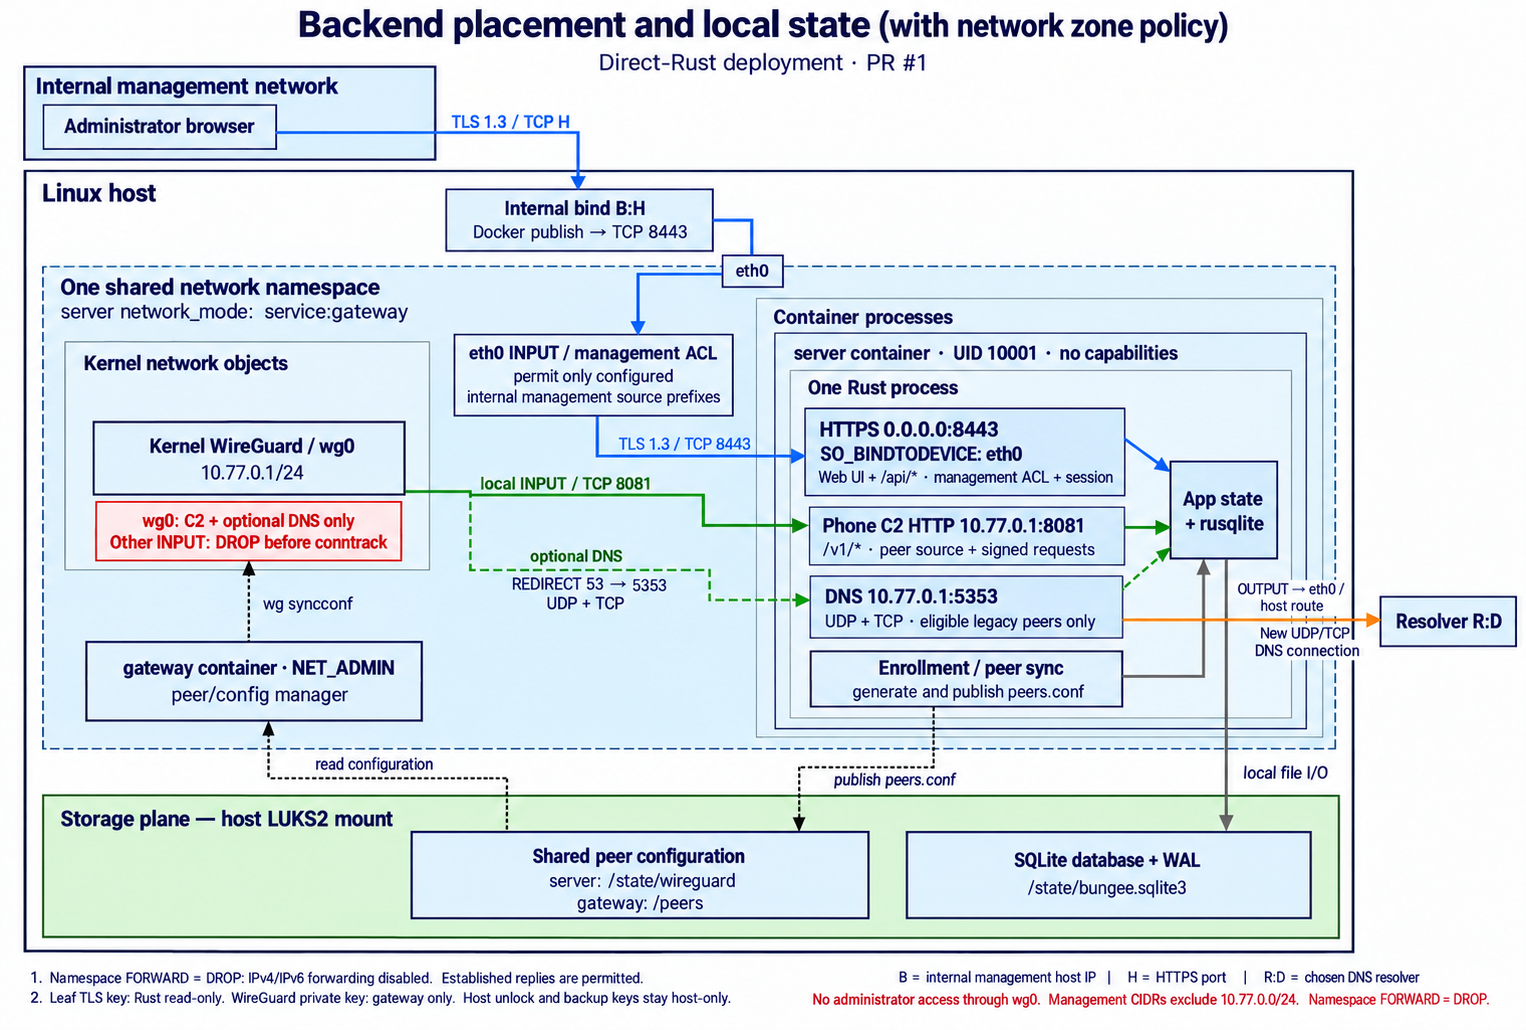
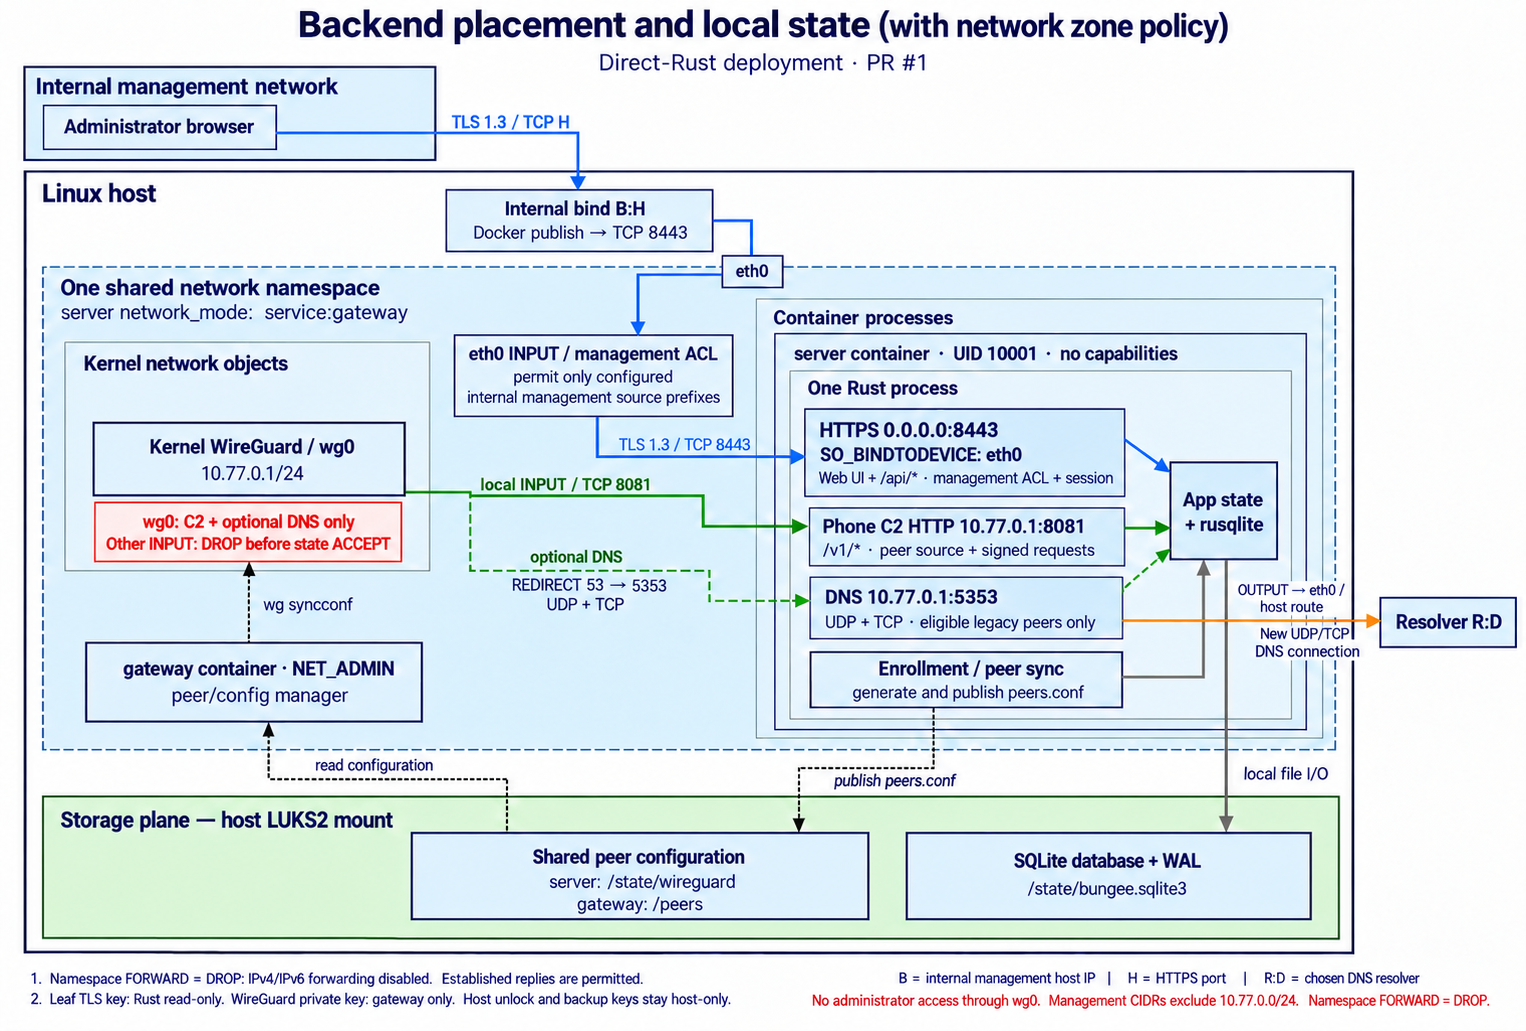
Publish fully redrawn security architecture on the live Security page

diff --git a/docs/SECURITY.md b/docs/SECURITY.md
@@ -14,23 +14,23 @@ The [validation record](VALIDATION.md) identifies tested behavior and outstandin
 
 ### Network paths
 
-The first drawing separates logical L3 reachability from the UDP transport carrying it. Its two panels show the same endpoints. `P` is one phone's `10.77.0.n` address, `E` is the reachable numeric WireGuard endpoint IP, and `W` is the configured UDP port. The green dashed path is the inner overlay, not a second physical link.
+The drawing is a single logical topology. Orange carries WireGuard ciphertext over the routed underlay to the server's kernel WireGuard endpoint. Green shows decrypted traffic delivered locally to Rust; the dashed branch is optional legacy DNS. Blue carries administrator TLS from the internal management network. Host port publishing is summarized above the shared namespace. `P` is a phone's `10.77.0.n` address, `E` is the reachable phone endpoint IP, `B` is the internal management IP, and `W`/`H` are the configured UDP/HTTPS ports.
 
-[![WireGuard overlay and UDP underlay: phone userspace stack, inner IPv4/TCP addressing, host Docker publication, shared namespace eth0, kernel WireGuard decapsulation, wg0 and local INPUT to Rust.](https://github.com/argentumseven/bungee/blob/b1e8297338aa51b8a7a0995a774c62298bd8330e/docs/images/security-architecture.png?raw=true)](https://github.com/argentumseven/bungee/blob/b1e8297338aa51b8a7a0995a774c62298bd8330e/docs/images/security-architecture.png)
+[![Network security topology: encrypted phone WireGuard ingress, separate internal administrator HTTPS, local C2 and optional DNS services in one Rust process, and a new outbound resolver connection.](https://github.com/argentumseven/bungee/blob/40b0fd8d7ec2d3424800679f2301d27dfe5aebe0/docs/images/security-architecture.png?raw=true)](https://github.com/argentumseven/bungee/blob/40b0fd8d7ec2d3424800679f2301d27dfe5aebe0/docs/images/security-architecture.png)
 
-[Open the full-size overlay and underlay drawing](https://github.com/argentumseven/bungee/blob/b1e8297338aa51b8a7a0995a774c62298bd8330e/docs/images/security-architecture.png).
+[Open the full-size network topology](https://github.com/argentumseven/bungee/blob/40b0fd8d7ec2d3424800679f2301d27dfe5aebe0/docs/images/security-architecture.png).
 
 The phone's address belongs to its app-contained userspace TCP/IP stack. The outer UDP flow enters the host's Docker port publication, crosses the bridge/veth into `eth0`, and reaches kernel WireGuard. After decapsulation, `wg0` delivers the inner TCP connection locally to `10.77.0.1:8081` through INPUT. It does not traverse the namespace's FORWARD chain or another container network. The phone peer has `AllowedIPs=10.77.0.1/32`; the server peer has `AllowedIPs=P/32`.
 
 ### Backend placement
 
-[![Backend placement: two containers in one network namespace, one Rust process with separate HTTPS, device HTTP and optional DNS sockets, local SQLite file I/O and shared peer configuration.](https://github.com/argentumseven/bungee/blob/b1e8297338aa51b8a7a0995a774c62298bd8330e/docs/images/backend-topology.png?raw=true)](https://github.com/argentumseven/bungee/blob/b1e8297338aa51b8a7a0995a774c62298bd8330e/docs/images/backend-topology.png)
+[![Backend placement: two containers in one network namespace, one Rust process with separate HTTPS, device HTTP and optional DNS sockets, local SQLite file I/O and shared peer configuration.](https://github.com/argentumseven/bungee/blob/40b0fd8d7ec2d3424800679f2301d27dfe5aebe0/docs/images/backend-topology.png?raw=true)](https://github.com/argentumseven/bungee/blob/40b0fd8d7ec2d3424800679f2301d27dfe5aebe0/docs/images/backend-topology.png)
 
-[Open the full-size backend drawing](https://github.com/argentumseven/bungee/blob/b1e8297338aa51b8a7a0995a774c62298bd8330e/docs/images/backend-topology.png).
+[Open the full-size backend drawing](https://github.com/argentumseven/bungee/blob/40b0fd8d7ec2d3424800679f2301d27dfe5aebe0/docs/images/backend-topology.png).
 
-The gateway and server are separate containers sharing one network namespace. Its WireGuard device is a kernel network object; the gateway manager configures it. One Rust process serves administrator HTTPS, the device HTTP API and optional DNS, with shared application state and local SQLite/WAL file I/O. Dotted black lines show peer-configuration files and `wg syncconf`, not network hops. Administrator TLS uses only the host's internal management IP and namespace `eth0`: INPUT admits configured internal source prefixes and Rust constrains the TLS socket with `SO_BINDTODEVICE=eth0`. Every other `wg0` INPUT path is dropped before conntrack; phone-overlay sources are also rejected independently in Rust. Administrator CIDRs cannot overlap the phone subnet. Phones cannot reach administration by targeting either `wg0` or the namespace's `eth0` IP.
+The gateway and server are separate containers sharing one network namespace. Its WireGuard device is a kernel network object; the gateway manager configures it. One Rust process serves administrator HTTPS, the device HTTP API and optional DNS, with shared application state and local SQLite/WAL file I/O. Dotted black lines show peer-configuration files and `wg syncconf`, not network hops. Administrator TLS uses only the host's internal management IP and namespace `eth0`: INPUT admits configured internal source prefixes and Rust constrains the TLS socket with `SO_BINDTODEVICE=eth0`. Every other `wg0` INPUT path is dropped before the ESTABLISHED/RELATED accept rule; phone-overlay sources are also rejected independently in Rust. Administrator CIDRs cannot overlap the phone subnet. Phones cannot reach administration by targeting either `wg0` or the namespace's `eth0` IP.
 
-Optional DNS redirects eligible legacy peers' UDP/TCP port 53 locally to Rust port 5353. Rust opens a new connection to the configured resolver; it does not forward the original phone packet. New personal enrollment does not enable this path. A private home resolver requires a separately provisioned host-to-home route. Namespace forwarding stays disabled; host Docker forwarding/NAT is a separate scope.
+Optional DNS redirects eligible legacy peers' UDP/TCP port 53 in PREROUTING, before local INPUT admits Rust port 5353. Connection tracking still runs; the phone deny rule precedes the established/related accept rule. Rust opens a new connection to the configured resolver; it does not forward the original phone packet. New personal enrollment does not enable this path. A private home resolver requires a separately provisioned host-to-home route. Namespace forwarding stays disabled; host Docker forwarding/NAT is a separate scope.
 
 Read the [address/port tables, packet paths, mount boundaries and pinned implementation references](NETWORK-TOPOLOGY.md) for the drawings' exact scope, including Docker source-address variations and private resolver routing.
 

diff --git a/docs/NETWORK-TOPOLOGY.md b/docs/NETWORK-TOPOLOGY.md
@@ -18,7 +18,7 @@ The drawings use a Linux/VPS host with a reachable phone UDP endpoint, a separat
 
 ## Underlay and overlay
 
-The top and bottom panels are two views of the **same** phone and server. The dashed green line expresses logical L3 reachability. It is carried inside the orange UDP path; it is not a second physical link.
+The network picture is one logical security topology. Its orange path carries WireGuard ciphertext across the routed underlay and host/Docker transport, ending at kernel WireGuard in the shared namespace. Green paths are decrypted packets for local C2 or optional legacy DNS. Blue is the separate internal management TLS path. Host DNAT is summarized in the host heading; its port mappings are operations on those paths, not extra routers. The resolver arrow is a new socket originated by the Rust DNS service. The companion backend picture expands process, control-file and storage relationships.
 
 The phone runs `wireguard-go` and a gVisor TCP/IP stack inside Bungee's process. `P/32` belongs to that private userspace stack. Bungee creates no Android OS WireGuard interface, VPN service, system route or system DNS setting. Its transport only dials TCP `10.77.0.1:8081`. The OS carries WireGuard's ordinary UDP socket over the phone's existing Wi-Fi, cellular or other network path. Other apps keep that existing path.
 
@@ -62,7 +62,7 @@ The phone and management zones have different entry points. `wg0` is limited to 
 
 Host `bind_ip` must name a single internal management address or loopback, never a wildcard or phone-overlay address. The operator defines the internal routing zone using the bind address and explicit CIDRs; private/global address classification is not an authorization mechanism. Administrator CIDRs overlapping any of `10.77.0.0/24` are refused, including broad supernets such as `10.0.0.0/8`.
 
-The firewall first classifies `wg0`: C2 and configured DNS are accepted; everything else is dropped. Only then do the general conntrack and `eth0` administrator rules run. Rust separately binds its TLS socket to `eth0` and rejects all phone-subnet sources, even with a permissive in-memory ACL. A non-loopback standalone administrator bind requires `BUNGEE_ADMIN_INTERFACE`; selecting `wg0`, an unavailable interface or a kernel that refuses the binding fails startup. Rust still has zero Linux capabilities.
+The firewall first classifies `wg0`: C2 and configured DNS are accepted; everything else is dropped. Only then do the ESTABLISHED/RELATED and `eth0` administrator accept rules run. This ordering does not bypass connection tracking itself: DNS REDIRECT runs in PREROUTING before local INPUT filtering. Rust separately binds its TLS socket to `eth0` and rejects all phone-subnet sources, even with a permissive in-memory ACL. A non-loopback standalone administrator bind requires `BUNGEE_ADMIN_INTERFACE`; selecting `wg0`, an unavailable interface or a kernel that refuses the binding fails startup. Rust still has zero Linux capabilities.
 
 On a VPS, provision an independent management/private route or separate host-to-site management tunnel if an internal route does not already exist. It must use a distinct interface/subnet from phone `wg0`. Keep host SSH and Docker management inside that zone too. Bungee does not reconfigure those host services. Match provider/host ingress policies to the management network and publish only the phone WireGuard UDP endpoint on the public side.
 

diff --git a/docs/images/README.md b/docs/images/README.md
@@ -2,8 +2,8 @@
 
 These are drawn raster PNG pictures with fixed geometry and technical labels. No live Mermaid renderer or automatic box layout is required.
 
-- `security-architecture.png` separates the logical WireGuard L3 overlay from its routed UDP underlay, including phone userspace addressing, host Docker publication, shared-namespace `eth0`/`wg0`, encapsulation and local INPUT delivery.
-- `backend-topology.png` shows the shared network namespace, distinct gateway/server containers, kernel WireGuard, one Rust process, its three socket services, SQLite file I/O and the peer-configuration control plane. Management arrives only from the internal network through `eth0`; the Rust TLS socket is interface-bound. Phone `wg0` admits C2 and optional DNS only, with all other local ingress dropped before conntrack.
+- `security-architecture.png` is one logical network topology with separate phone, internal management and server zones. It shows encrypted WireGuard ingress, decrypted local C2, optional legacy DNS, internal HTTPS and a new DNS upstream connection. Host publishing is an annotation outside the shared namespace; the picture does not duplicate endpoint views.
+- `backend-topology.png` shows the shared network namespace, distinct gateway/server containers, kernel WireGuard, one Rust process, its three socket services, SQLite file I/O and the peer-configuration control plane. Management arrives only from the internal network through `eth0`; the Rust TLS socket is interface-bound. Phone `wg0` admits C2 and optional DNS only, with all other local ingress dropped before the ESTABLISHED/RELATED accept rule. Connection tracking still runs.
 - `storage-lifecycle.png` shows host-key unlock, cold encrypted backups and authenticated restore with separate host keys.
 
 The [topology reference](../NETWORK-TOPOLOGY.md) records the address/port notation, forwarding scope, connection and mount tables, omissions and pinned implementation sources. It distinguishes optional legacy DNS from the current personal app's fixed HTTP transport.
